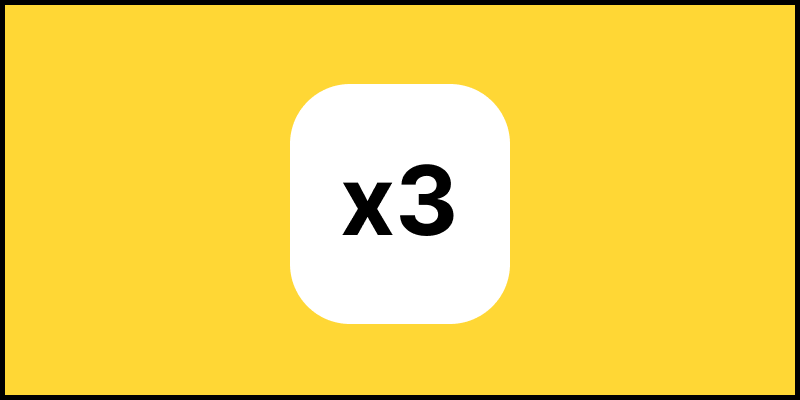
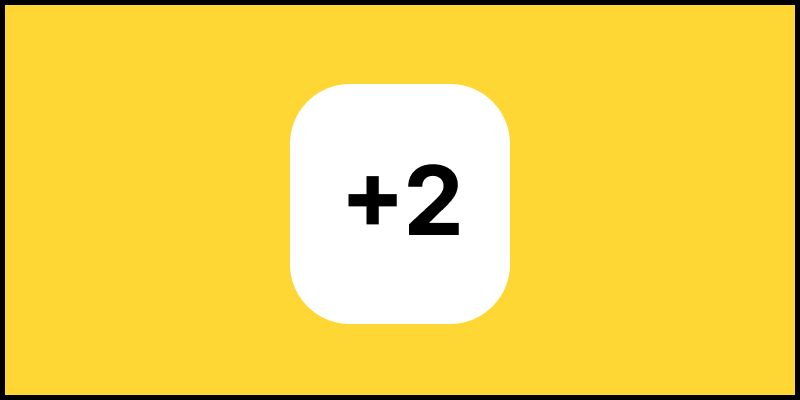
Power ups

Changed region(s): [[0.4062, 0.39, 0.5938, 0.6]]

diff --git a/BrickBreaker/src/main/java/org/example/scenes/GameScene.java b/BrickBreaker/src/main/java/org/example/scenes/GameScene.java
@@ -11,9 +11,14 @@ import org.example.entities.Paddle;
 import org.example.entities.bricks.Brick;
 import org.example.entities.powerups.*;
 
-public class GameScene extends DynamicScene implements PowerUpSpawner {
+import java.util.ArrayList;
+import java.util.List;
+
+public class GameScene extends DynamicScene implements PowerUpSpawner, BallSpawner, BallManager {
 
     private BrickGrid brickGrid;
+    private Paddle paddle;
+    private final List<Ball> balls = new ArrayList<>();
 
     @Override
     public void setupScene() {
@@ -22,13 +27,14 @@ public class GameScene extends DynamicScene implements PowerUpSpawner {
 
     @Override
     public void setupEntities() {
-        var paddle = new Paddle(new Coordinate2D(getWidth() / 2, getHeight() / 6 * 5), new Size(100, 10));
+        paddle = new Paddle(new Coordinate2D(getWidth() / 2, getHeight() / 6 * 5), new Size(100, 10));
         paddle.setAnchorPoint(AnchorPoint.CENTER_CENTER);
         addEntity(paddle);
 
-        var ball = new Ball(new Coordinate2D(getWidth() / 2, 500), paddle);
+        var ball = new Ball(new Coordinate2D(getWidth() / 2, 500), paddle, this);
         ball.setAnchorPoint(AnchorPoint.CENTER_CENTER);
         addEntity(ball);
+        addBall(ball);
 
         brickGrid = new BrickGrid(this);
         brickGrid.loadLayout(getLevel1Layout());
@@ -40,17 +46,51 @@ public class GameScene extends DynamicScene implements PowerUpSpawner {
 
     @Override
     public void spawnPowerUp(Coordinate2D location, PowerUpType type) {
+        location = location.subtract(new Coordinate2D(10, 10)); // center fix
         switch (type) {
-            case SPEED -> addEntity(new SpeedPowerUp(location));
-            case SIZE -> addEntity(new SizePowerUp(location));
-            case MULTIPLIER -> addEntity(new MultiplyPowerUp(location));
+            case SPEED -> addEntity(new SpeedPowerUp(location, this));
+            case MULTIPLIER -> addEntity(new MultiplyPowerUp(location, this));
         }
+    }
+
+
+    @Override
+    public void spawnExtraBall(Coordinate2D location, double angle) {
+        var newBall = new Ball(location, paddle, this);
+        newBall.setAnchorLocation(location);
+        newBall.setMotion(2, angle);
+        addEntity(newBall);
+        addBall(newBall);
+    }
+
+
+
+    @Override
+    public void addBall(Ball ball) {
+        balls.add(ball);
+    }
+
+    @Override
+    public void applyTemporarySpeedBoost(double factor, int durationInSeconds) {
+        for (Ball ball : balls) {
+            ball.setSpeed(ball.getSpeed() * factor);
+        }
+
+        new Thread(() -> {
+            try {
+                Thread.sleep(durationInSeconds * 1000L);
+            } catch (InterruptedException ignored) {
+            }
+            for (Ball ball : balls) {
+                ball.setSpeed(2);
+            }
+        }).start();
     }
 
 
     private int[][] getLevel1Layout() {
         return new int[][]{
-                {1, 2, 3, 5, 0, 2, 1, 1},
+                {1, 2, 3, 4, 0, 2, 1, 1},
                 {2, 2, 2, 3, 4, 2, 2, 2},
                 {1, 4, 1, 2, 1, 1, 3, 1}
         };

diff --git a/BrickBreaker/src/main/java/org/example/entities/powerups/PowerUp.java b/BrickBreaker/src/main/java/org/example/entities/powerups/PowerUp.java
@@ -1,5 +1,6 @@
 package org.example.entities.powerups;
 
+import com.github.hanyaeger.api.AnchorPoint;
 import com.github.hanyaeger.api.Coordinate2D;
 import com.github.hanyaeger.api.Size;
 import com.github.hanyaeger.api.entities.Collided;
@@ -7,14 +8,19 @@ import com.github.hanyaeger.api.entities.Collider;
 import com.github.hanyaeger.api.entities.SceneBorderTouchingWatcher;
 import com.github.hanyaeger.api.entities.impl.DynamicSpriteEntity;
 import com.github.hanyaeger.api.scenes.SceneBorder;
-import org.example.entities.Ball;
+import org.example.entities.Paddle;
 
 import java.util.List;
 
 public class PowerUp extends DynamicSpriteEntity implements SceneBorderTouchingWatcher, Collided {
 
-    protected PowerUp(String resource, Coordinate2D initialLocation, Size size) {
-        super(resource, initialLocation, size);
+    public PowerUp(String resource, Coordinate2D brickTopLeft, Size size) {
+        super(resource, new Coordinate2D(
+                brickTopLeft.getX() + 32,
+                brickTopLeft.getY() + 16
+        ), size);
+
+        setAnchorPoint(AnchorPoint.CENTER_CENTER);
         setMotion(1, 0d);
     }
 
@@ -32,7 +38,7 @@ public class PowerUp extends DynamicSpriteEntity implements SceneBorderTouchingW
     @Override
     public void onCollision(List<Collider> colliders) {
         for (Collider c : colliders) {
-            if (c instanceof Ball) {
+            if (c instanceof Paddle) {
                 remove();
                 break;
             }

diff --git a/BrickBreaker/src/main/java/org/example/entities/powerups/MultiplyPowerUp.java b/BrickBreaker/src/main/java/org/example/entities/powerups/MultiplyPowerUp.java
@@ -2,16 +2,40 @@ package org.example.entities.powerups;
 
 import com.github.hanyaeger.api.Coordinate2D;
 import com.github.hanyaeger.api.Size;
+import com.github.hanyaeger.api.entities.Collider;
+import org.example.entities.Paddle;
+
+import java.util.List;
+import java.util.Random;
 
 public class MultiplyPowerUp extends PowerUp {
 
     private static final Size DEFAULT_SIZE = new Size(20, 20);
+    private final BallSpawner ballSpawner;
 
-    public MultiplyPowerUp(Coordinate2D initialLocation, Size size) {
-        super("entities/multiply-powerup.png", initialLocation, size);
+    public MultiplyPowerUp(Coordinate2D initialLocation, BallSpawner ballSpawner) {
+        super("entities/multiply-powerup.png", initialLocation, DEFAULT_SIZE);
+        this.ballSpawner = ballSpawner;
     }
 
-    public MultiplyPowerUp(Coordinate2D initialLocation) {
-        this(initialLocation, DEFAULT_SIZE);
+    @Override
+    public void onCollision(List<Collider> colliders) {
+        for (Collider c : colliders) {
+            if (c instanceof Paddle) {
+                spawnExtraBalls();
+                remove();
+                break;
+            }
+        }
+    }
+
+    private void spawnExtraBalls() {
+        Coordinate2D spawnLocation = getAnchorLocation();
+        Random random = new Random();
+
+        for (int i = 0; i < 2; i++) {
+            double angle = random.nextDouble() * 360;
+            ballSpawner.spawnExtraBall(spawnLocation, angle);
+        }
     }
 }

diff --git a/BrickBreaker/src/main/java/org/example/entities/powerups/SpeedPowerUp.java b/BrickBreaker/src/main/java/org/example/entities/powerups/SpeedPowerUp.java
@@ -2,16 +2,33 @@ package org.example.entities.powerups;
 
 import com.github.hanyaeger.api.Coordinate2D;
 import com.github.hanyaeger.api.Size;
+import com.github.hanyaeger.api.entities.Collider;
+import org.example.entities.Paddle;
+
+import java.util.List;
 
 public class SpeedPowerUp extends PowerUp {
 
     private static final Size DEFAULT_SIZE = new Size(20, 20);
+    private final BallManager ballManager;
 
-    public SpeedPowerUp(Coordinate2D initialLocation, Size size) {
-        super("entities/speed-powerup.png", initialLocation, size);
+    public SpeedPowerUp(Coordinate2D initialLocation, BallManager ballManager) {
+        this(initialLocation, DEFAULT_SIZE, ballManager);
     }
 
-    public SpeedPowerUp(Coordinate2D initialLocation) {
-        this(initialLocation, DEFAULT_SIZE);
+    public SpeedPowerUp(Coordinate2D initialLocation, Size size, BallManager ballManager) {
+        super("entities/speed-powerup.png", initialLocation, size);
+        this.ballManager = ballManager;
+    }
+
+    @Override
+    public void onCollision(List<Collider> colliders) {
+        for (Collider c : colliders) {
+            if (c instanceof Paddle) {
+                remove();
+                ballManager.applyTemporarySpeedBoost(1.5, 10);
+                break;
+            }
+        }
     }
 }

diff --git a/BrickBreaker/src/main/java/org/example/entities/Ball.java b/BrickBreaker/src/main/java/org/example/entities/Ball.java
@@ -8,19 +8,25 @@ import com.github.hanyaeger.api.entities.impl.DynamicCircleEntity;
 import com.github.hanyaeger.api.scenes.SceneBorder;
 import javafx.scene.paint.Color;
 import org.example.entities.bricks.Brick;
+import org.example.entities.powerups.BallManager;
 
 import java.util.List;
 
 public class Ball extends DynamicCircleEntity implements Collider, Collided, SceneBorderTouchingWatcher {
 
     private Paddle paddle;
+    private BallManager ballManager;
 
-    public Ball(Coordinate2D initialLocation, Paddle paddle) {
+    public Ball(Coordinate2D initialLocation, Paddle paddle, BallManager ballManager) {
         super(initialLocation);
+        this.ballManager = ballManager;
+        this.paddle = paddle;
+
         super.setRadius(10);
         super.setFill(Color.WHITE);
-        this.paddle = paddle;
         setMotion(2, 0d);
+
+        ballManager.addBall(this);
     }
 
 
@@ -89,6 +95,8 @@ public class Ball extends DynamicCircleEntity implements Collider, Collided, Sce
                 break;
             case BOTTOM:
                 remove();
+                break;
+
 
         }
 

diff --git a/BrickBreaker/src/main/java/org/example/entities/BrickGrid.java b/BrickBreaker/src/main/java/org/example/entities/BrickGrid.java
@@ -30,8 +30,7 @@ public class BrickGrid {
                     case 1 -> new SolidBrick(new Coordinate2D(col * 64, row * 32), size, powerUpSpawner);
                     case 2 -> new NormalBrick(new Coordinate2D(col * 64, row * 32), size, powerUpSpawner);
                     case 3 -> new MultiplyBrick(new Coordinate2D(col * 64, row * 32), size, powerUpSpawner);
-                    case 4 -> new SizeBrick(new Coordinate2D(col * 64, row * 32), size, powerUpSpawner);
-                    case 5 -> new SpeedBrick(new Coordinate2D(col * 64, row * 32), size, powerUpSpawner);
+                    case 4 -> new SpeedBrick(new Coordinate2D(col * 64, row * 32), size, powerUpSpawner);
                     default -> null;
                 };
 

diff --git a/BrickBreaker/src/main/java/org/example/entities/powerups/BallManager.java b/BrickBreaker/src/main/java/org/example/entities/powerups/BallManager.java
@@ -1,0 +1,8 @@
+package org.example.entities.powerups;
+
+import org.example.entities.Ball;
+
+public interface BallManager {
+    void addBall(Ball ball);
+    void applyTemporarySpeedBoost(double factor, int durationInSeconds);
+}

diff --git a/BrickBreaker/src/main/java/org/example/entities/powerups/BallSpawner.java b/BrickBreaker/src/main/java/org/example/entities/powerups/BallSpawner.java
@@ -1,0 +1,7 @@
+package org.example.entities.powerups;
+
+import com.github.hanyaeger.api.Coordinate2D;
+
+public interface BallSpawner {
+    void spawnExtraBall(Coordinate2D location, double angle);
+}
